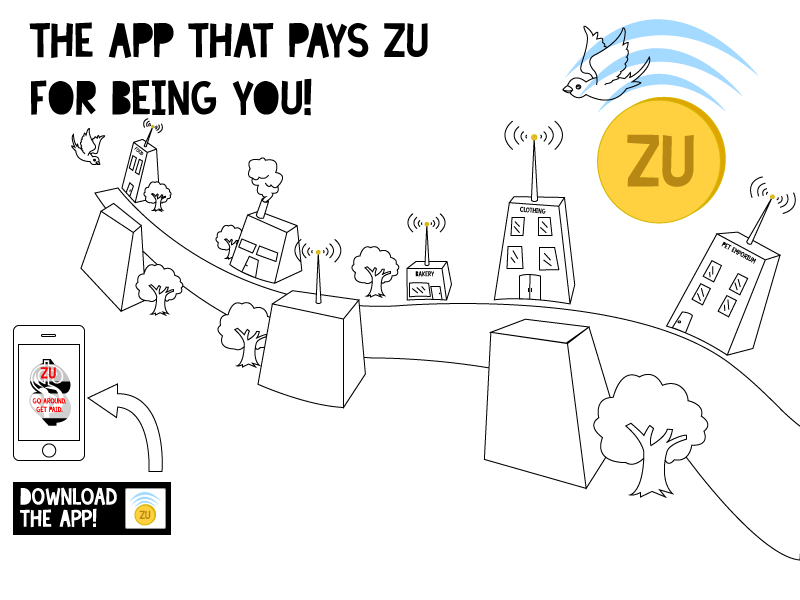
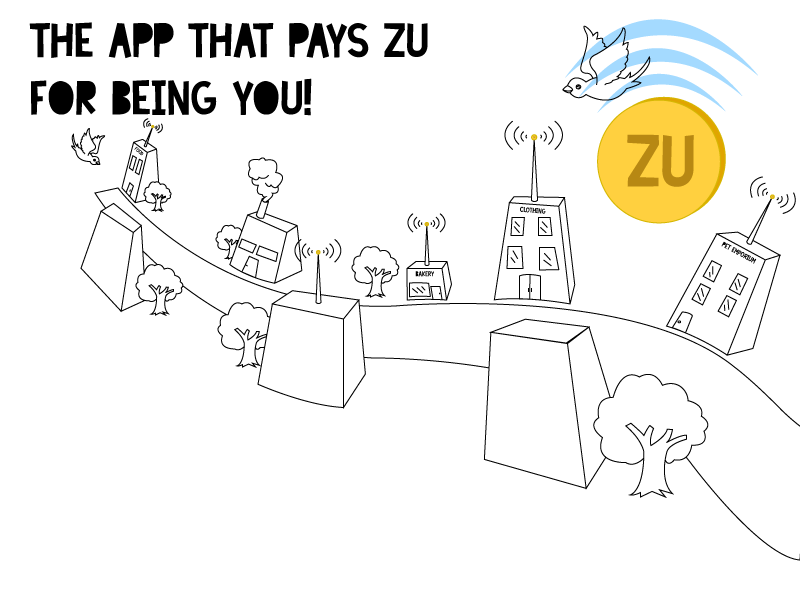
nav senses current page, starting to build front page

Changed region(s): [[0.0, 0.78, 0.2188, 0.9], [0.0312, 0.6, 0.1875, 0.72]]

diff --git a/main/_GLOBAL/JS/scrollPanel.js b/main/_GLOBAL/JS/scrollPanel.js
@@ -3,6 +3,80 @@ $('.menuActivateButton').click(function(item){
 	$('.menuButtonResponder').toggle();
 });
 
+var browserSpecs=Widgets.Models.Browser.windowSize(),
+	tabList=$('#tabList');
+$('.switchablePanel').each(
+
+	function(inx, item){
+	 		$(item).css({
+ 			height:browserSpecs.height+'px',
+ 			width:browserSpecs.width+'px'
+ 		});
+ 
+ 		$('.fullScreenJs', item).css({
+ 			height:browserSpecs.height+'px',
+ 			width:browserSpecs.width+'px'
+ 		});
+	if (inx===0){
+	
+		var frontTabList=tabList.clone(),
+			panelId=$(item).attr('id');
+		frontTabList.addClass('tabList').addClass('navFrontPanel');
+		$(item).append(frontTabList);
+
+		frontTabList.attr('id', 'frontPageTablist').show();
+	}
+	else{
+		var newTabList=tabList.clone();
+		newTabList.addClass('tabList').addClass('menuButtonResponder').addClass('navSubsequentPanels');
+		$(item).prepend(newTabList);
+	a=1;
+	}
+
+		
+	}
+
+);
+
+
+$('.panelTab a').click(function(event){
+event.preventDefault();
+
+//	$('.menuButtonResponder').hide();
+
+	var currPanelId=$(this).parent().parent().parent().attr('id');
+	var targetSelector=this.href.match(/.*(#.*)$/)[1],
+		target=$(targetSelector);			
+		var titleString=this.text
+		origTitle=document.title;
+		
+		if (currPanelId!=targetSelector){
+		
+
+		
+		$.scrollTo(target, 2000, {
+			onAfter: function() {		
+				if(titleString){document.title=origTitle+': '+titleString;}
+				location.hash=targetSelector;
+				var linkId='linkto_'+targetSelector.replace(/#/, '');
+				
+				
+	
+// 	tabList.find('a').removeClass('navActive');	
+// 	$('.masterPanelList').find('#'+'linkId').parent().parent().removeClass('navActive').addClass('navInactive');
+	
+	$('.masterPanelList').find('.panelTab').removeClass('navInactive').addClass('navActive');	
+	$('.masterPanelList').find('#'+linkId).parent().parent().removeClass('navActive').addClass('navInactive');
+				
+			}
+			
+			});
+
+			
+
+		}
+});
+
 
 //	$('#tabList').addClass('navFrontPanel').show();
 	
@@ -29,68 +103,3 @@ $('.menuActivateButton').click(function(item){
 // 	};
 
 //$('.switchablePanel').bind('click', scrollFunction)
-
-var browserSpecs=Widgets.Models.Browser.windowSize(),
-	tabList=$('#tabList');
-$('.switchablePanel').each(
-
-	function(inx, item){
-	 		$(item).css({
- 			height:browserSpecs.height+'px',
- 			width:browserSpecs.width+'px'
- 		});
- 
- 		$('img', item).css({
- 			height:browserSpecs.height+'px',
- 			width:browserSpecs.width+'px'
- 		});
-	if (inx===0){
-	
-		var frontTabList=tabList.clone(),
-			panelId=$(item).attr('id');
-		frontTabList.addClass('tabList').addClass('navFrontPanel');
-		$(item).append(frontTabList);
-
-		frontTabList.attr('id', 'frontPageTablist').show();
-	}
-	else{
-		var newTabList=tabList.clone();
-		newTabList.addClass('tabList').addClass('menuButtonResponder').addClass('navSubsequentPanels');
-		$(item).prepend(newTabList);
-	a=1;
-	}
-
-
-		
-	}
-
-);
-
-
-
-
-$('.panelTab a').click(function(event){
-event.preventDefault();
-	$('.tabList').hide();
-	var currPanelId=$(this).parent().parent().parent().attr('id');
-	var targetSelector=this.href.match(/.*(#.*)$/)[1],
-		target=$(targetSelector);			
-		var titleString=this.text
-		origTitle=document.title;
-		
-		if (currPanelId!=targetSelector){
-		
-
-		
-		$.scrollTo(target, 2000, {
-			onAfter: function() {		
-				if(titleString){document.title=origTitle+': '+titleString;}
-				location.hash=targetSelector;
-			}
-			
-			});
-
-			
-
-		}
-});

diff --git a/main/_GLOBAL/CSS/scrollPanel.css b/main/_GLOBAL/CSS/scrollPanel.css
@@ -57,6 +57,7 @@ position:relative;
 	height:40px;width:100px;position:absolute;top:0px;right:0px;
 	border:1pt solid #ddd;
 	cursor:pointer;
+	font-family: "lazySunday", sans-serif;
 }
 
 
@@ -65,7 +66,7 @@ background:rgba(255,208,63,.7);
 }
 
 .navFrontPanel{
-bottom:30px;left:30px;
+bottom:10px;left:10px;
 background:white;
 }
 
@@ -87,6 +88,7 @@ display:block;
 float:left;
 font-size:130%;
 margin:10px 10px;
+padding:0px 10px;
 border:2pt solid black;
 background:white;
 }
@@ -96,4 +98,12 @@ background:white;
 
 .panelTab:hover{
 background:#eee;
+}
+
+.navActive{
+opacity:1.0;
+}
+
+.navInactive{
+opacity:.5;
 }

diff --git a/main/_default/panelItems/b_Big_Idea.html b/main/_default/panelItems/b_Big_Idea.html
@@ -1,5 +1,5 @@
 <div id='b_Big_Idea' class='scrollItem'>
-<div class='menuActivateButton'></div>
+<div class='menuActivateButton'>MENU</div>
 
-	<img src='../elements/b_Big_Idea.png' style='margin:0px auto;display:block;'>
+	<img class='fullScreenJs'  src='../elements/b_Big_Idea.png' style='margin:0px auto;display:block;'>
 	</div>

diff --git a/main/_default/panelItems/e_B2B.html b/main/_default/panelItems/e_B2B.html
@@ -1,5 +1,5 @@
 <div id='e_Business_Contact' class='scrollItem'>
 <div class='menuActivateButton'></div>
 
-	<img src='../elements/e_Business_Contact.png' style='margin:0px auto;display:block;'>
+	<img class='fullScreenJs'  src='../elements/e_Business_Contact.png' style='margin:0px auto;display:block;'>
 	</div>

diff --git a/main/_default/panelItems/d_Contact_Us.html b/main/_default/panelItems/d_Contact_Us.html
@@ -1,5 +1,5 @@
 <div id='d_Contact_Us' class='scrollItem'>
 <div class='menuActivateButton'></div>
 
-	<img src='../elements/d_Contact_Us.png' style='margin:0px auto;display:block;'>
+	<img class='fullScreenJs'  src='../elements/d_Contact_Us.png' style='margin:0px auto;display:block;'>
 	</div>

diff --git a/main/_default/panelItems/a_Join_Us!.html b/main/_default/panelItems/a_Join_Us!.html
@@ -1,0 +1,12 @@
+<div id='a_Introduction' class='scrollItem'>
+
+
+	<img class='fullScreenJs' src='../elements/a_Introduction.png' style='margin:0px auto;display:block;'>
+	
+	
+<img src='../elements/a_download.png' style='bottom: 15%;
+left: 2%;
+position: absolute;'>
+
+
+	</div>

diff --git a/main/_default/panelItems/c_FAQ.html b/main/_default/panelItems/c_FAQ.html
@@ -1,5 +1,5 @@
 <div id='c_FAQ' class='scrollItem'>
 <div class='menuActivateButton'></div>
 
-	<img src='../elements/c_FAQ.png' style='margin:0px auto;display:block;'>
+	<img class='fullScreenJs'  src='../elements/c_FAQ.png' style='margin:0px auto;display:block;'>
 	</div>
